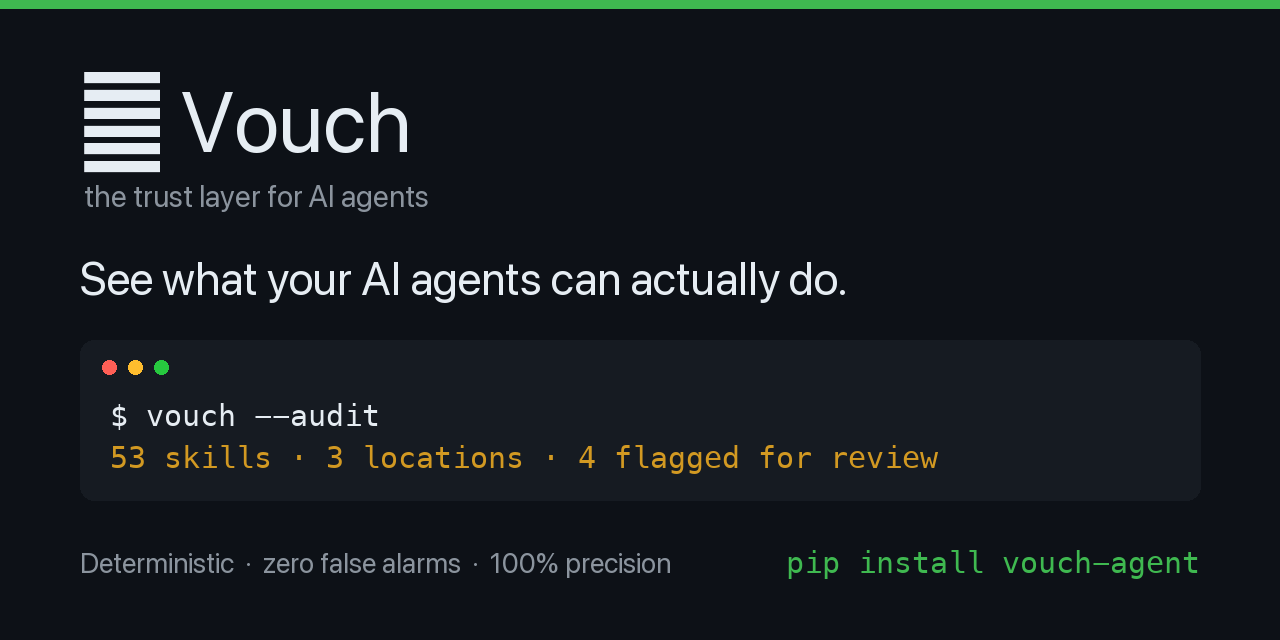
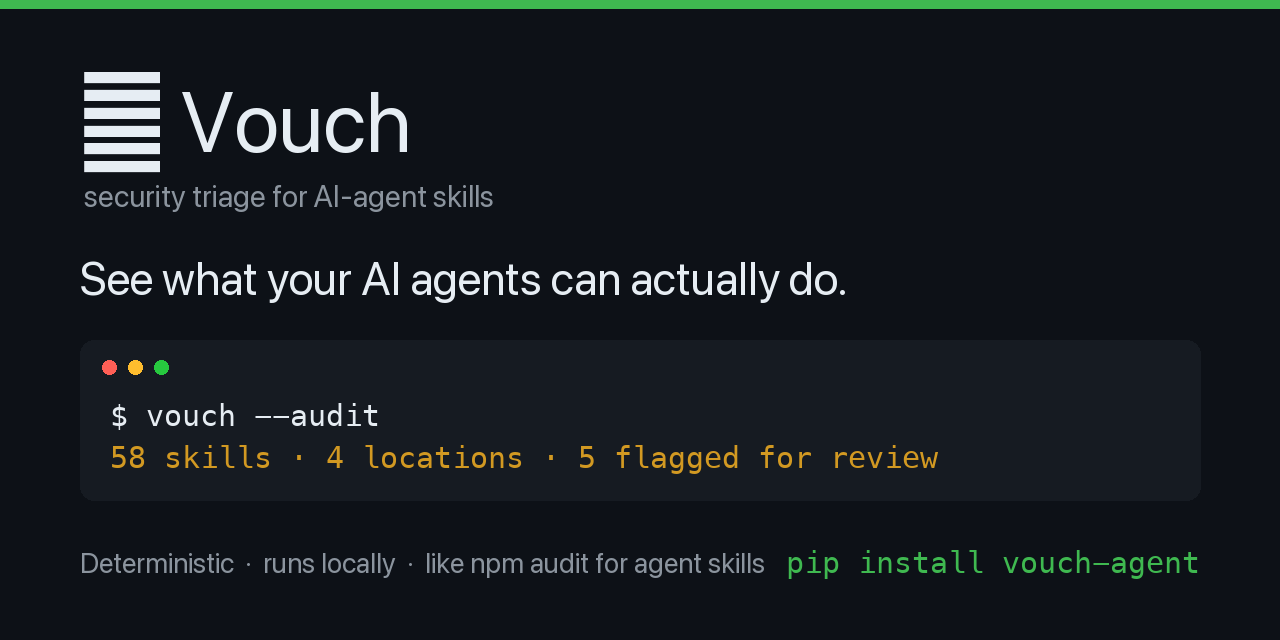
social preview: drop 'trust layer' + overclaims (zero false alarms/100% precision), match visibility-first tagline

diff --git a/scripts/gen_social.py b/scripts/gen_social.py
@@ -61,7 +61,7 @@ def main() -> None:
 
     # shield glyph (simple) + wordmark
     _text(d, (80, 70), "\u25c8 Vouch", _font(84, bold=True), FG)
-    _text(d, (84, 178), "the trust layer for AI agents", _font(30), MUTED)
+    _text(d, (84, 178), "security triage for AI-agent skills", _font(30), MUTED)
 
     # tagline
     _text(d, (80, 250), "See what your AI agents can actually do.",
@@ -76,10 +76,10 @@ def main() -> None:
     mono = _font(30, mono=True)
     _text(d, (px0 + 30, py0 + 58), "$ vouch --audit", mono, FG)
     _text(d, (px0 + 30, py0 + 100),
-          "53 skills \u00b7 3 locations \u00b7 4 flagged for review", mono, WARN)
+          "58 skills \u00b7 4 locations \u00b7 5 flagged for review", mono, WARN)
 
     # bottom strip
-    _text(d, (80, 545), "Deterministic  \u00b7  zero false alarms  \u00b7  100% precision",
+    _text(d, (80, 545), "Deterministic  \u00b7  runs locally  \u00b7  like npm audit for agent skills",
           _font(28), MUTED)
     _text(d, (W - 80, 545), "pip install vouch-agent", _font(30, bold=True, mono=True),
           ACCENT, anchor="ra")
